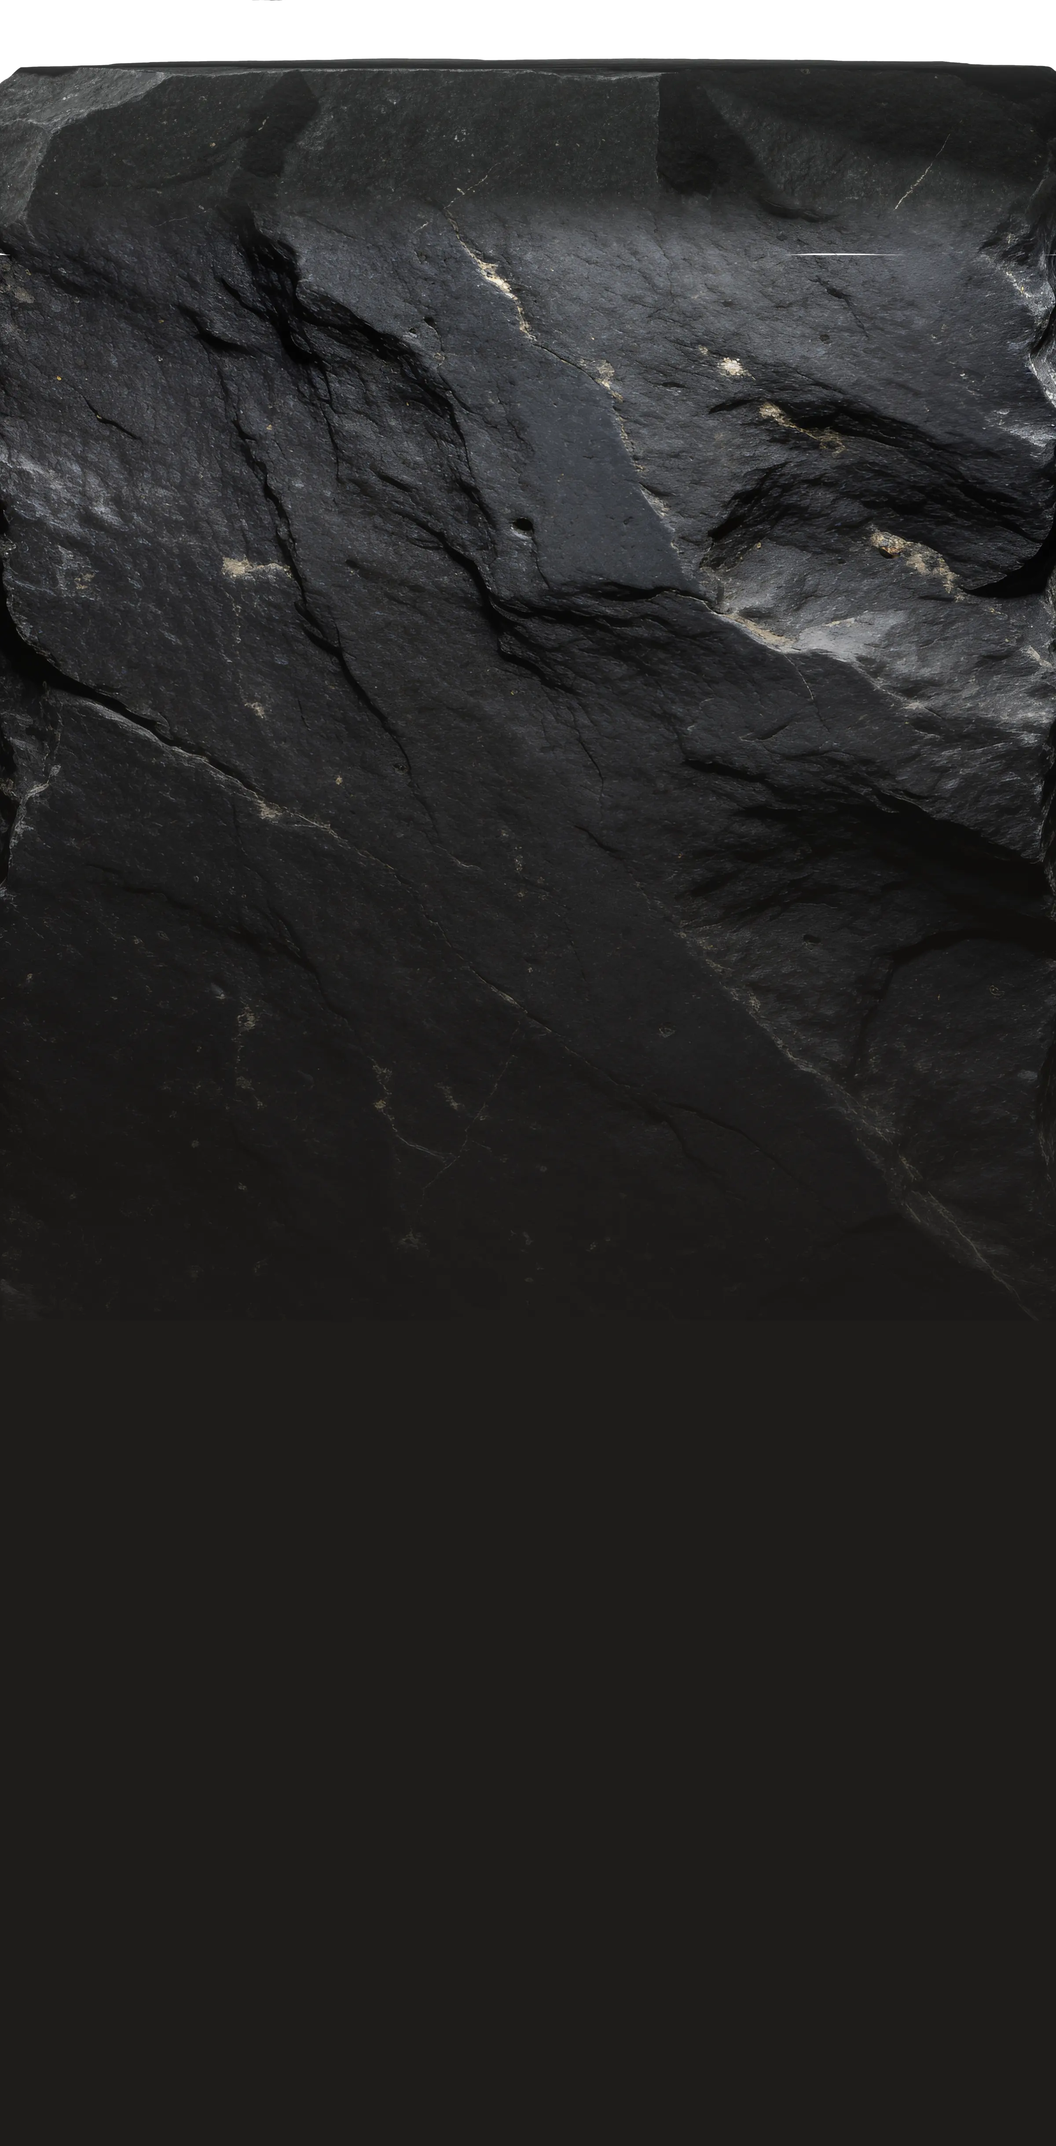
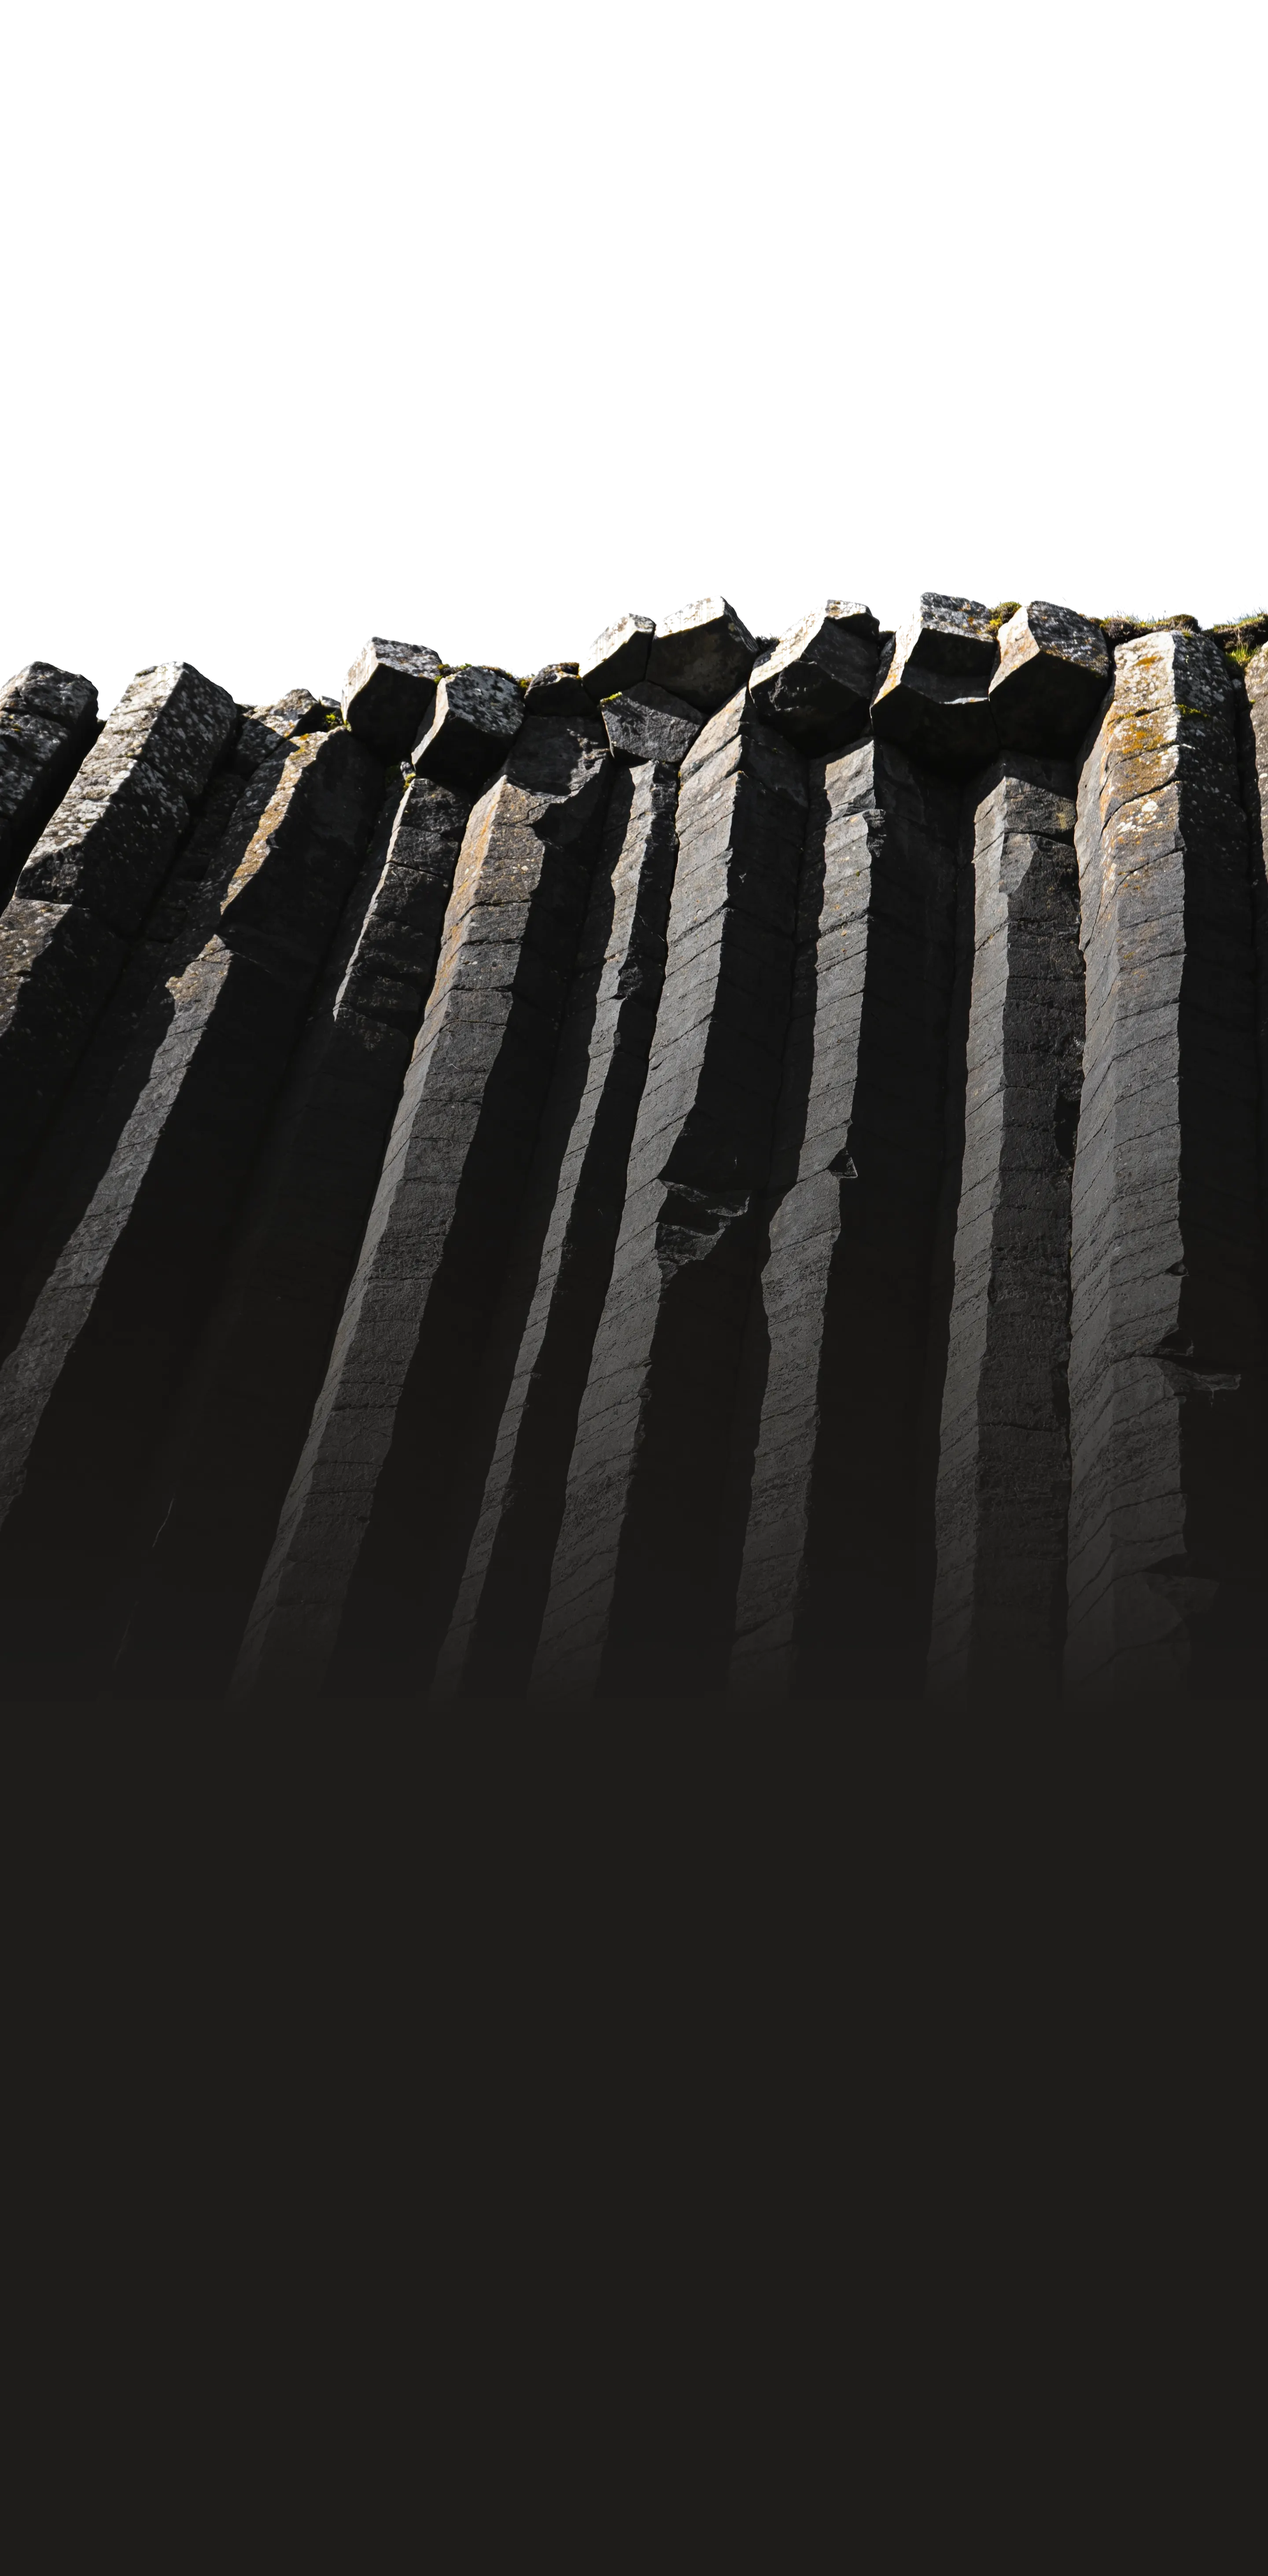
Katrín: kill the fade, and rebuild the stone as one genuinely dark image
THE BLUR WAS .parallax__fade. Still there from the registry, where it exists
to dissolve a layer box into the page below — which this hero does not need,
because the material grades into the ground itself. So all it did was paint a
160px wash of ground colour across the bottom fifth of EVERY frame, at
z-index 30, above everything including the copy that lands on the stone. A
permanent soft band across the bottom. Removed in sticky mode, with the
black-line-overflow that has the same job.

The other half of the blur was mine: the face render was 2880px wide and I
upscaled it to 4992, 1.73x, so the entire body of the plate below the edge
was interpolated. Soft by construction.

THE STONE WAS LIGHT, and the profile said why. Down the old plate:
54 39 58 60 65 45 42 32 29 27 27 — it got BRIGHTER from 3% to 20% before
darkening, because the face's top (63-98) was lighter than the block it was
supposed to continue from (31-57), and the "dark" end was not stone at all,
just flat #1d1b19. Mid-grey stone, then paint. Nowhere in it was there dark
STONE.

Rebuilt from ONE image instead of two crossfaded ones — a wall of Icelandic
columnar basalt, its crest against blank sky, columns descending and
darkening in the same photograph. So the edge and the body are the same rock
at the same scale under the same light, there is no join to blur, and at
2880 native for a 1280px render there is no upscale. It is also the right
material for her: this is Svartifoss, not a quarry sample.
[…]

diff --git a/src/preview/katrinisfeld/Home.tsx b/src/preview/katrinisfeld/Home.tsx
@@ -139,19 +139,19 @@ const HERO_LAYERS: ReadonlyArray<ParallaxLayer> = [
      with nothing left to seam against. */
 
   /* far plane — behind, slower, mostly swallowed by the near one */
-  { layer: '2', width: 2400, height: 4875,
+  { layer: '2', width: 2880, height: 5850,
     src: `${ASSET}/terrain-plate-far.webp`, alt: '',
-    yPercent: -61.5,
-    geom: { top: '75%', height: 'auto', aspectRatio: '2400 / 4875' } },
+    yPercent: -46.7,
+    geom: { top: '3.5%', height: 'auto', aspectRatio: '2880 / 5850' } },
 
   /* near plane — the ground the camera actually descends past. Pinned, the
      page supplies none of the travel, so the rise is entirely this tween:
      -78% of its own height carries the edge from 89% of the viewport to just
      above the top, with 851px of stone still under it on an 800px frame. */
-  { layer: '4', width: 2400, height: 4875,
+  { layer: '4', width: 2880, height: 5850,
     src: `${ASSET}/terrain-plate.webp`, alt: '',
-    yPercent: -92.3,
-    geom: { top: '80%', height: 'auto', aspectRatio: '2400 / 4875' } },
+    yPercent: -70,
+    geom: { top: '8.5%', height: 'auto', aspectRatio: '2880 / 5850' } },
 ]
 
 

diff --git a/src/components/ui/parallax-scrolling.css b/src/components/ui/parallax-scrolling.css
@@ -63,6 +63,17 @@
   inset: 0;
 }
 
+/* THE FADE HAS TO GO WHEN PINNED. The registry uses it to dissolve its layer
+   box into the page below, which it needs because its layers just end. Here
+   the material grades into the ground on its own, so all this does is paint a
+   160px wash of ground colour across the bottom fifth of EVERY frame — above
+   everything, at z-index 30, including the copy that lands on the stone. That
+   permanent soft band across the bottom is the blur. */
+.parallax--sticky .parallax__fade,
+.parallax--sticky .parallax__black-line-overflow {
+  display: none;
+}
+
 /* extends a fifth of a screen BELOW the header, so the fade finishes over the
    top of whatever follows instead of stopping at a hard edge */
 .parallax__visuals {
